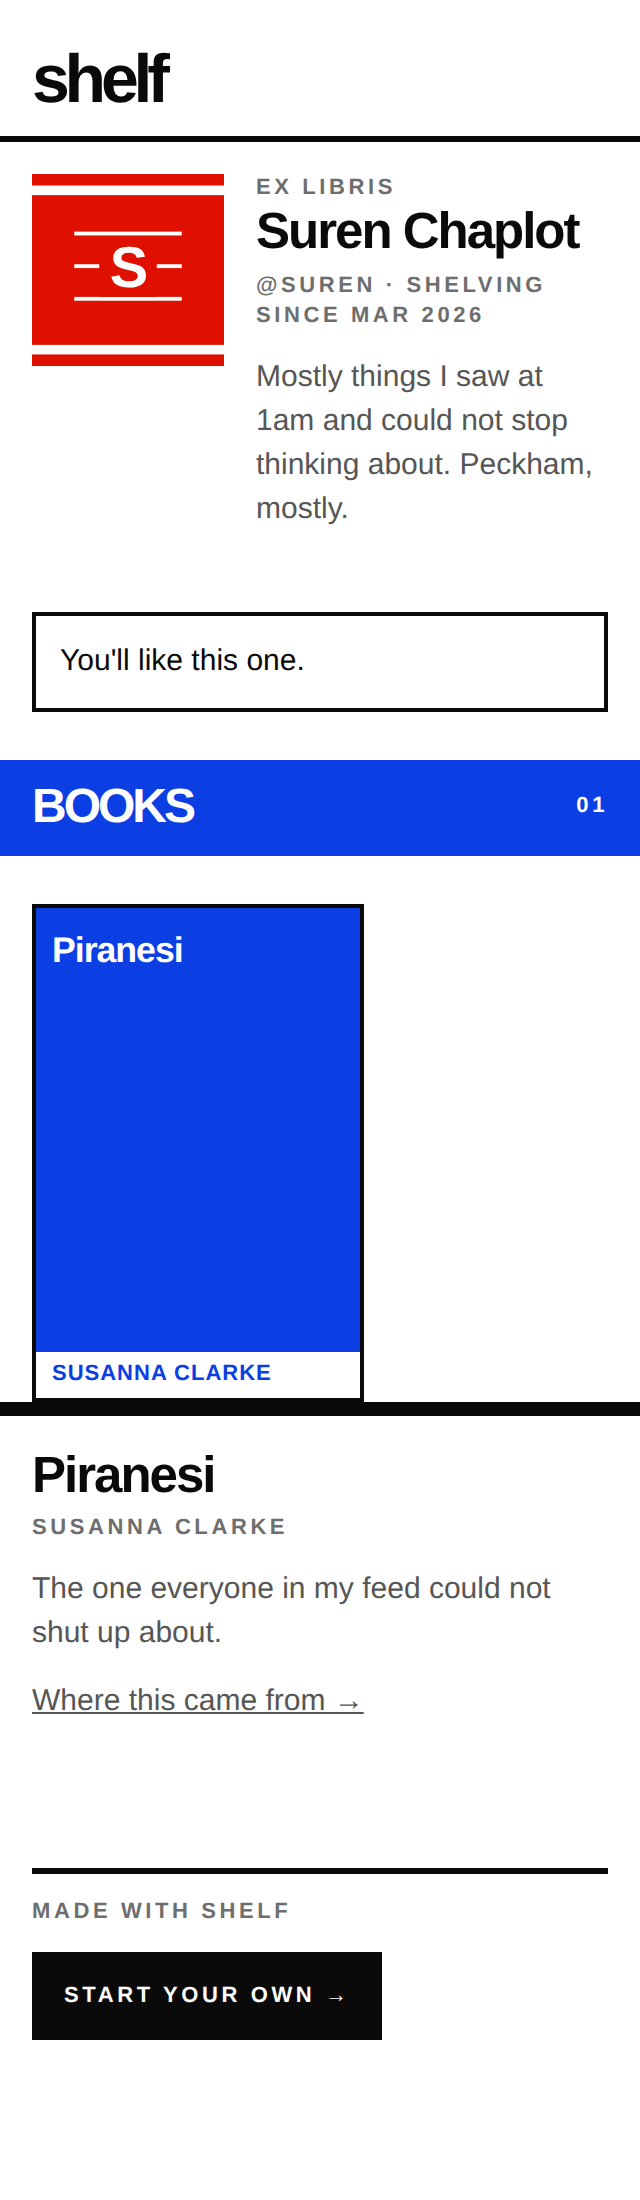
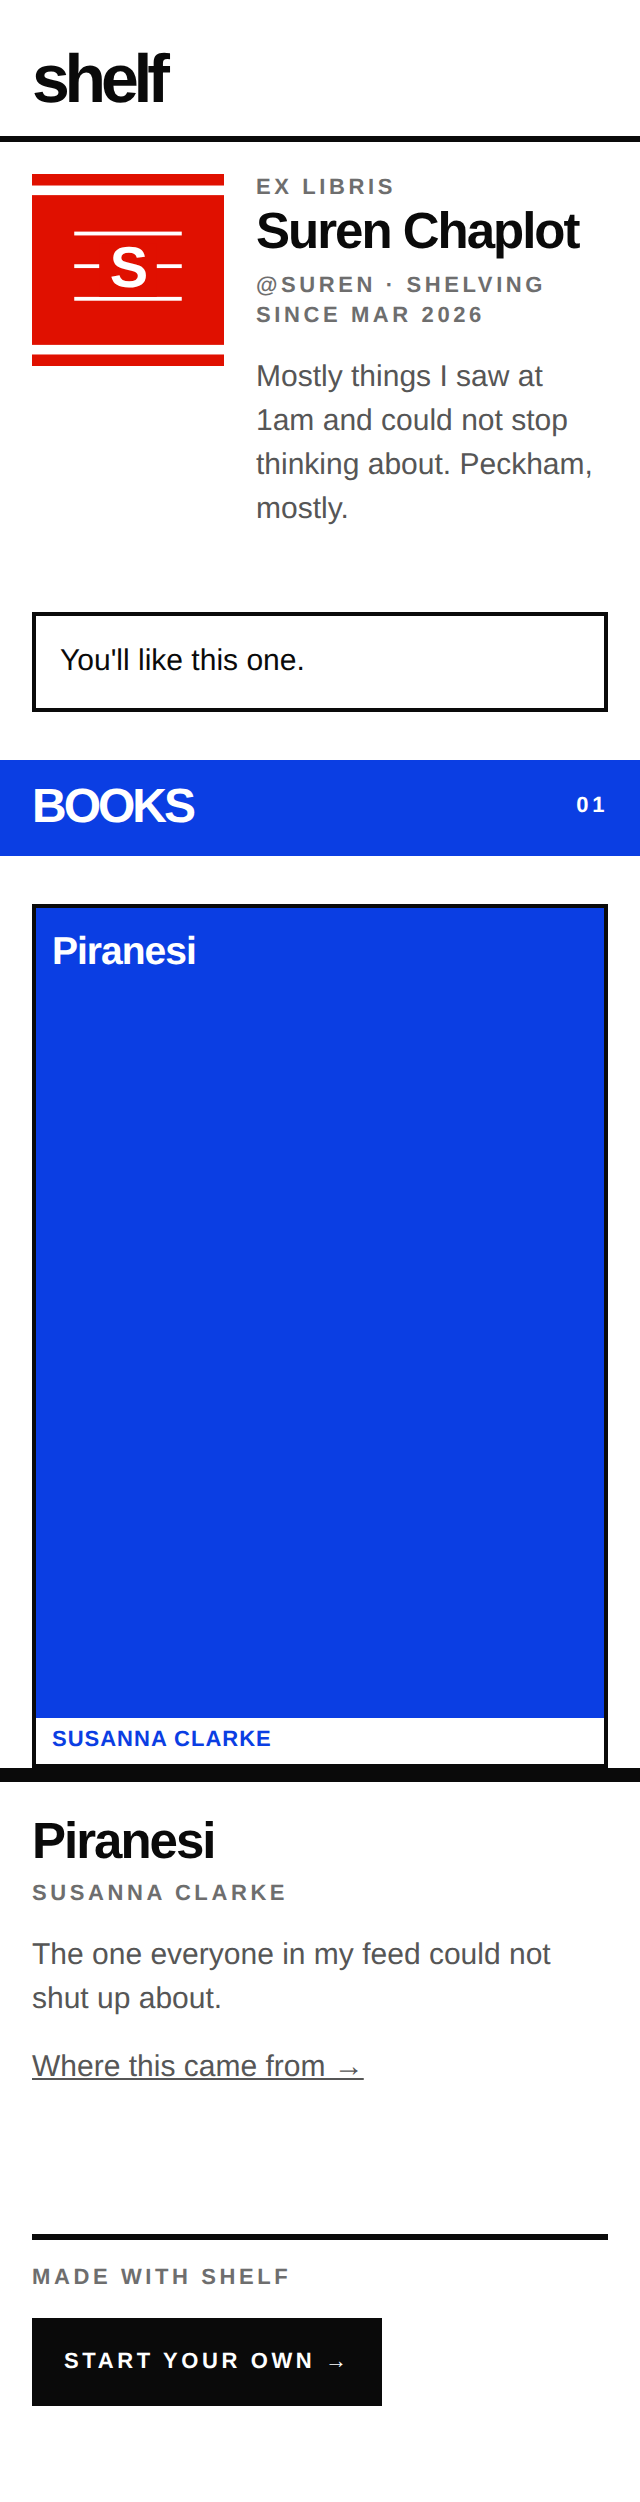
Your own note, and a way to fix the shelf a thing landed on
Two gaps that only show up once the sharing is built.

A shelf you hand to somebody is a part of yourself, and until now the only
thing on it was a catalogue: titles, authors, addresses — the part anybody
could look up. Your note is the part they cannot, and there was no way to write
one. It edits in place on the field, not behind an edit screen, and the empty
state says what it is for rather than sitting there as a blank.

The other is the one defect the owner can see and nobody else can fix: a thing
classified onto the wrong shelf. Four colour blocks, the current one keylined
in its own label colour, one tap to move it.

Both fill the detail panel's middle, which until now was a large field of flat
colour with a colophon at the bottom.

201 controls measured off the live layout; gate and selftest green; 62 e2e
checks still passing.

diff --git a/app/App.tsx b/app/App.tsx
@@ -38,9 +38,10 @@ import { getToken, setToken, verifySharedAccess } from "./src/tokenStore";
 import { Press } from "./src/Press";
 import { Reveal } from "./src/Reveal";
 import {
-  BOARD, COVER_KEYLINE, coverFor, jacketType, lists, listOn, mainTitle, gridFor, rowsOf, emptyBoards, emptyPitch, EMPTY_BOARD_H, rowPitch,
+  BOARD, COVER_KEYLINE, coverFor, placeholderOn, jacketType, lists, listOn, mainTitle, gridFor, rowsOf, emptyBoards, emptyPitch, EMPTY_BOARD_H, rowPitch,
   RULE, sp, t, TOUCH_MIN, useTheme, type Palette,
 } from "./src/theme";
+import * as D from "./src/design.js";
 
 // The pile is a tab like any other, not a section bolted above the shelves.
 // It is where a thing lives before it stands anywhere, which is a place — and
@@ -55,7 +56,7 @@ type Screen = "case" | "add" | "profile" | "received";
 type Sharing = { kind: ShareKind; target: string | null; list: string; title: string };
 
 export default function App() {
-  const { c } = useTheme();
+  const { c, dark } = useTheme();
   const s = useMemo(() => styles(c), [c]);
 
   const [ready, setReady] = useState(false);
@@ -255,6 +256,7 @@ export default function App() {
             kind: "item", target: open.id, list: open.list,
             title: open.title ?? "This one",
           })}
+          dark={dark}
           s={s} c={c}
         />
       ) : null}
@@ -481,20 +483,36 @@ function PileRow({ item, onAct, onOpen, s, c }: {
  * top-aligned the block and left four fifths of the screen as an empty red
  * field, which is not "generous white space", it is a poster nobody finished.
  */
-function Detail({ item, onClose, onAct, onShare, s, c }: {
+function Detail({ item, onClose, onAct, onShare, dark, s, c }: {
   item: Item; onClose: () => void;
   onAct: (i: Item, body: Record<string, unknown>) => void;
   onShare: () => void;
+  dark: boolean;
   s: ReturnType<typeof styles>; c: Palette;
 }) {
   const list = (item.list ?? "unsorted") as ListName;
   const fill = c[list] ?? c.unsorted;
   const [failed, setFailed] = useState(false);
   const art = item.image_url && !failed ? item.image_url : null;
+  const [note, setNote] = useState(item.note ?? "");
+  const [editingNote, setEditingNote] = useState(false);
+  const [savingNote, setSavingNote] = useState(false);
+
+  async function saveNote() {
+    setSavingNote(true);
+    try {
+      await updateItem({ id: item.id, note });
+      setEditingNote(false);
+    } finally {
+      setSavingNote(false);
+    }
+  }
+
   // Every word on this panel is `on` over the list colour — the one pairing
   // `list-label-contrast` proves in both schemes. No opacities: a label at 86%
   // is a contrast ratio nobody computed.
   const on = listOn[list] ?? c.onList;
+  const ghost = placeholderOn(list, dark ? D.dark : D.light);
   return (
     <View style={[s.detail, { backgroundColor: fill }]}>
       <ScrollView contentContainerStyle={s.detailScroll} showsVerticalScrollIndicator={false}>
@@ -524,7 +542,57 @@ function Detail({ item, onClose, onAct, onShare, s, c }: {
         ) : null}
 
         <View>
-          {item.note ? <Text style={[s.detailNote, { color: on }]}>{item.note}</Text> : null}
+          {/* YOUR note. The thing a catalogue cannot give you and the reason a
+              shelf you share is a part of yourself rather than a list of
+              titles — so it is editable in place, on the field, not behind an
+              edit screen. */}
+          {editingNote ? (
+            <>
+              <TextInput
+                value={note}
+                onChangeText={setNote}
+                autoFocus
+                multiline
+                maxLength={1000}
+                placeholder="What you thought about it"
+                placeholderTextColor={ghost}
+                style={[s.detailNoteInput, { color: on, borderColor: on }]}
+              />
+              <View style={s.detailActions}>
+                <Press onPress={saveNote} disabled={savingNote} style={[s.detailBtn, { backgroundColor: on }]} size={TOUCH_MIN} label="Save the note">
+                  {savingNote ? <ActivityIndicator color={fill} /> : <Text style={[s.detailBtnLabel, { color: fill }]}>Save note</Text>}
+                </Press>
+                <Press onPress={() => { setNote(item.note ?? ""); setEditingNote(false); }} style={[s.detailBtnGhost, { borderColor: on }]} size={TOUCH_MIN} label="Cancel">
+                  <Text style={[s.detailBtnLabel, { color: on }]}>Cancel</Text>
+                </Press>
+              </View>
+            </>
+          ) : (
+            <Press onPress={() => setEditingNote(true)} containerStyle={s.detailNoteTap} size={TOUCH_MIN} label={note ? "Edit your note" : "Add a note"}>
+              <Text style={[s.detailNote, { color: note ? on : ghost }]}>
+                {note || "Add a note — what you thought, why you saved it"}
+              </Text>
+            </Press>
+          )}
+
+          {/* Auto-classification gets it wrong sometimes, and a thing on the
+              wrong shelf is the one defect the owner can see and nobody else
+              can fix. Four blocks, current one marked. */}
+          <Text style={[s.detailKicker, s.detailMoveLabel, { color: on }]}>Shelf</Text>
+          <View style={s.detailMove}>
+            {LISTS.map((l) => (
+              <Press
+                key={l}
+                onPress={() => onAct(item, { list: l })}
+                containerStyle={s.detailMoveSlot}
+                style={[s.detailMoveTab, { backgroundColor: c[l] }, l === list ? { borderColor: on } : null]}
+                size={TOUCH_MIN}
+                label={`Move to ${lists[l].label}`}
+              >
+                <Text style={[s.detailMoveNum, { color: listOn[l] }]}>{lists[l].n}</Text>
+              </Press>
+            ))}
+          </View>
 
           <View style={s.detailActions}>
             <Press onPress={onShare} style={[s.detailBtn, { backgroundColor: on }]} size={TOUCH_MIN} label="Share this">
@@ -696,6 +764,16 @@ const styles = (c: Palette) => StyleSheet.create({
   detailSub: { ...t.bodyMed, marginTop: sp.md },
   detailArt: { width: "100%", aspectRatio: 3 / 4, marginVertical: sp.xl, borderWidth: COVER_KEYLINE },
   detailNote: { ...t.body, marginTop: sp.md },
+  detailNoteTap: { minHeight: TOUCH_MIN, justifyContent: "center" },
+  detailNoteInput: {
+    ...t.body, minHeight: TOUCH_MIN + 32, marginTop: sp.md, padding: sp.md,
+    borderWidth: 2, textAlignVertical: "top",
+  },
+  detailMoveLabel: { marginTop: sp.xl },
+  detailMove: { flexDirection: "row", gap: 2, marginTop: sp.sm },
+  detailMoveSlot: { flex: 1 },
+  detailMoveTab: { minHeight: TOUCH_MIN, alignItems: "center", justifyContent: "center", borderWidth: 2, borderColor: "transparent" },
+  detailMoveNum: { ...t.micro },
   detailActions: { flexDirection: "row", flexWrap: "wrap", gap: sp.sm, marginTop: sp.xl },
   detailBtn: { minHeight: TOUCH_MIN, paddingHorizontal: sp.lg, alignItems: "center", justifyContent: "center" },
   detailBtnGhost: { minHeight: TOUCH_MIN, paddingHorizontal: sp.lg, alignItems: "center", justifyContent: "center", borderWidth: 2 },

diff --git a/app/preview/.public/public-gone.html b/app/preview/.public/public-gone.html
@@ -84,7 +84,7 @@ a{color:inherit}
 .note{border:2px solid var(--ink);padding:12px;margin-top:16px;
   font-size:15px;line-height:22px}
 .solo{max-width:420px;margin:0 auto}
-.solo .jacket{aspect-ratio:2 / 3}
+.solo .jacket{aspect-ratio:2 / 3;max-width:none;flex:1 1 100%}
 @media (max-width:400px){ .wordmark{font-size:34px;line-height:32px} .band h2{font-size:24px;line-height:24px} }
 </style>
 </head><body><div class="wrap">

diff --git a/app/preview/.public/public-item.html b/app/preview/.public/public-item.html
@@ -84,7 +84,7 @@ a{color:inherit}
 .note{border:2px solid var(--ink);padding:12px;margin-top:16px;
   font-size:15px;line-height:22px}
 .solo{max-width:420px;margin:0 auto}
-.solo .jacket{aspect-ratio:2 / 3}
+.solo .jacket{aspect-ratio:2 / 3;max-width:none;flex:1 1 100%}
 @media (max-width:400px){ .wordmark{font-size:34px;line-height:32px} .band h2{font-size:24px;line-height:24px} }
 </style>
 </head><body><div class="wrap">

diff --git a/app/preview/.public/public-profile.html b/app/preview/.public/public-profile.html
@@ -84,7 +84,7 @@ a{color:inherit}
 .note{border:2px solid var(--ink);padding:12px;margin-top:16px;
   font-size:15px;line-height:22px}
 .solo{max-width:420px;margin:0 auto}
-.solo .jacket{aspect-ratio:2 / 3}
+.solo .jacket{aspect-ratio:2 / 3;max-width:none;flex:1 1 100%}
 @media (max-width:400px){ .wordmark{font-size:34px;line-height:32px} .band h2{font-size:24px;line-height:24px} }
 </style>
 </head><body><div class="wrap">

diff --git a/app/preview/.public/public-shelf.html b/app/preview/.public/public-shelf.html
@@ -84,7 +84,7 @@ a{color:inherit}
 .note{border:2px solid var(--ink);padding:12px;margin-top:16px;
   font-size:15px;line-height:22px}
 .solo{max-width:420px;margin:0 auto}
-.solo .jacket{aspect-ratio:2 / 3}
+.solo .jacket{aspect-ratio:2 / 3;max-width:none;flex:1 1 100%}
 @media (max-width:400px){ .wordmark{font-size:34px;line-height:32px} .band h2{font-size:24px;line-height:24px} }
 </style>
 </head><body><div class="wrap">

diff --git a/HANDOVER.md b/HANDOVER.md
@@ -21,7 +21,7 @@ somebody. One repo, two folders: `api/` (plain `node:http` + Postgres) and
 | The design system | `node app/verify-design.mjs` → **20 rules + the theme bridge**; `--selftest` proves every one fires on a deliberate violation AND stays quiet on clean input |
 | Every screen, looked at | `node app/preview/shoot.mjs` → 25 PNGs, 320 + 375, both schemes |
 | The public pages, looked at | `node app/preview/shoot-public.mjs` → 10 PNGs, 320 + 390, both schemes, horizontal overflow MEASURED |
-| Tap targets | `node app/preview/measure.mjs` → **196 controls**, smallest effective 52pt, across every screen including the four that only open on a tap |
+| Tap targets | `node app/preview/measure.mjs` → **201 controls**, smallest effective 52pt, across every screen including the four that only open on a tap |
 
 ## Open, with the check that would close it
 

diff --git a/README.md b/README.md
@@ -126,7 +126,7 @@ dedupe and the sender field each produce named failures. It is also where the
 design gate's own habit paid off twice — the harness used to die on an
 unexpected shape and silently skip every check after it.
 
-Every screen is rendered and looked at (`npm run preview` in `app/`), and 196
+Every screen is rendered and looked at (`npm run preview` in `app/`), and 201
 controls are measured off the live layout rather than eyeballed — including the
 four screens that only open on a tap, which were unverified until the audit
 learned to open them.
